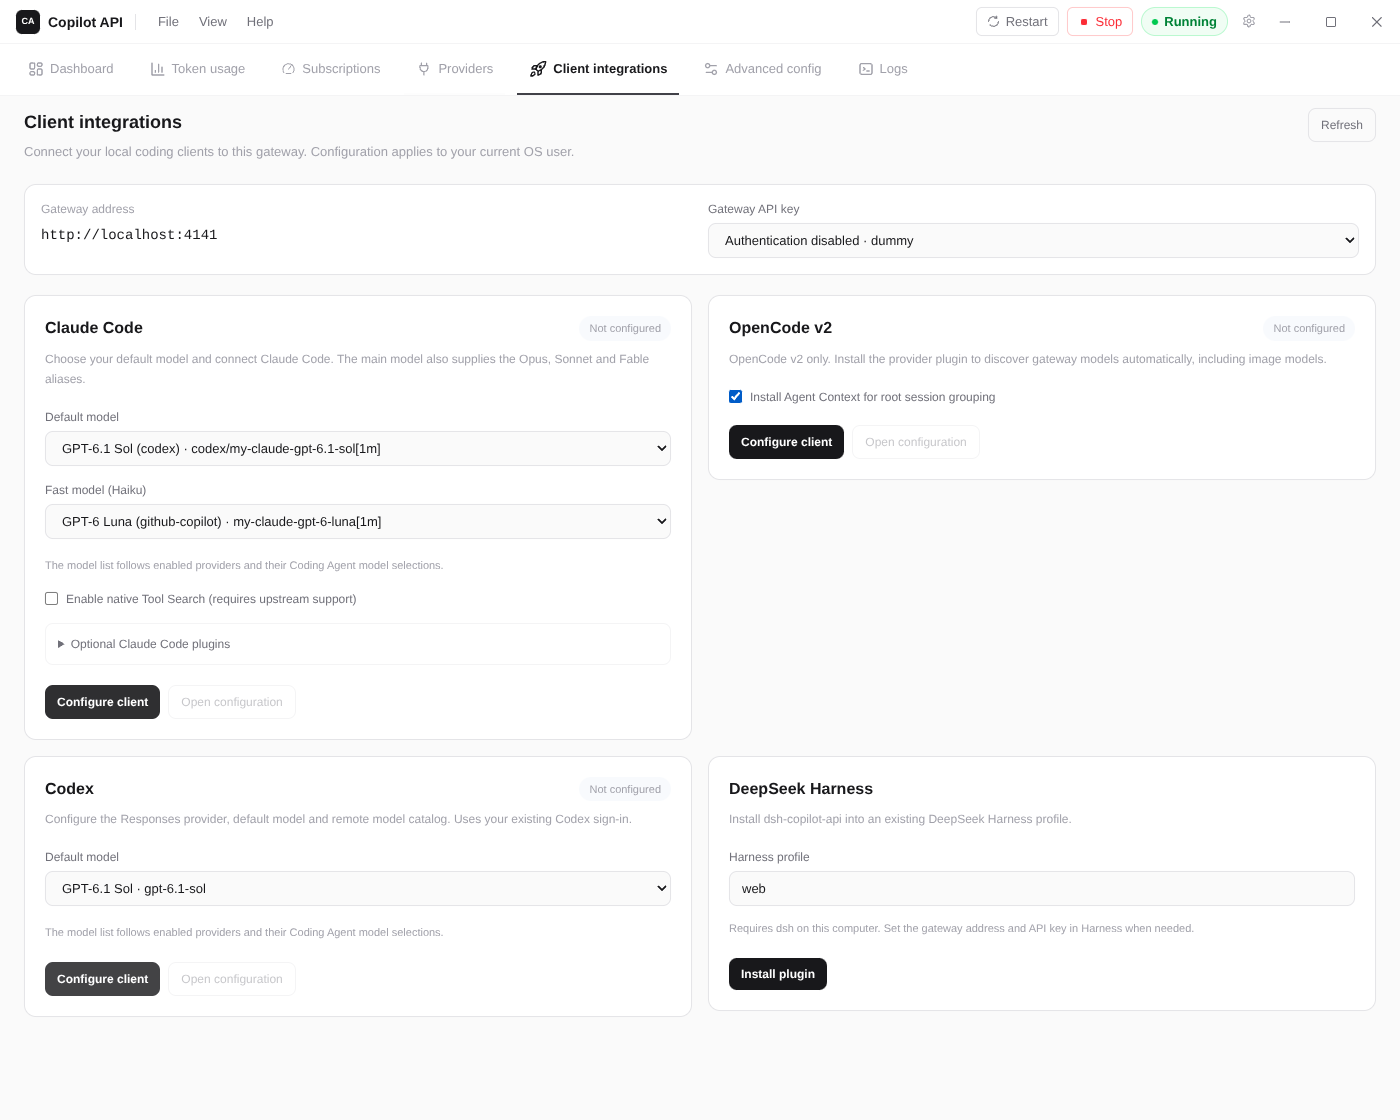
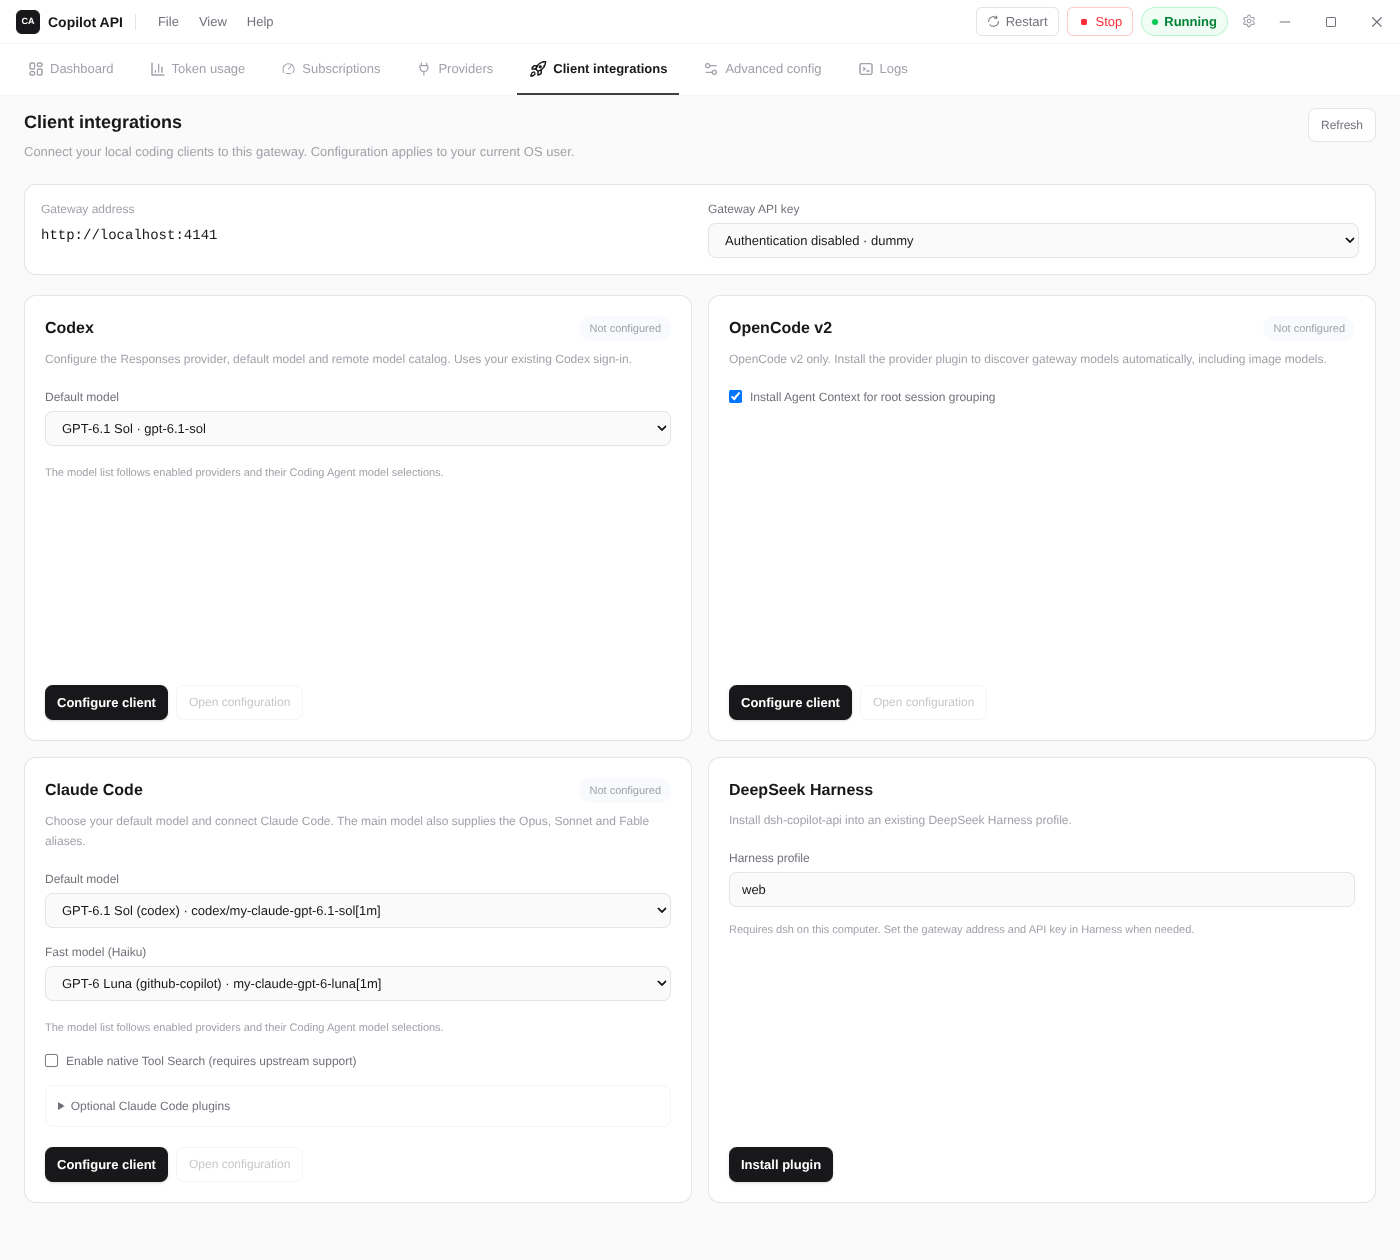
fix(desktop): align client cards and button styles

diff --git a/desktop/src/pages/ClientIntegrationsPage.tsx b/desktop/src/pages/ClientIntegrationsPage.tsx
@@ -1,5 +1,6 @@
 import { useEffect, useState } from 'react'
 import { useLanguage } from '../contexts/LanguageContext'
+import { primaryButtonClass } from '../lib/button-styles'
 import type { LocaleKey } from '../locales'
 import type { ClientIntegrationReply } from '../types/ipc'
 import {
@@ -14,9 +15,9 @@ import {
 const fieldClass =
   'mt-1.5 block w-full rounded-lg border border-line bg-canvas px-3 py-2 text-[13px] text-ink outline-none focus:border-blue-400 focus:ring-2 focus:ring-blue-400/15 disabled:opacity-50'
 const buttonClass =
-  'rounded-lg border border-line px-3 py-2 text-xs text-ink-soft transition hover:bg-sunken disabled:cursor-not-allowed disabled:opacity-40'
-const primaryClass =
-  'rounded-lg bg-accent-strong px-3 py-2 text-xs font-semibold text-white transition hover:opacity-90 disabled:cursor-not-allowed disabled:opacity-40'
+  'rounded-lg border border-line bg-surface px-3 py-2 text-xs text-ink-soft transition hover:bg-sunken disabled:cursor-not-allowed disabled:opacity-40'
+const primaryClass = `px-3 py-2 ${primaryButtonClass}`
+const clientOrder: ClientId[] = ['codex', 'opencode', 'claude']
 type Translate = ReturnType<typeof useLanguage>['t']
 
 function errorText(t: Translate, code: string) {
@@ -164,17 +165,21 @@ export default function ClientIntegrationsPage({
               {t('clients.errors.modelsFailed')}
             </p>
           )}
-          <div className="grid items-start gap-4 lg:grid-cols-2">
-            {state.clients.map((status) => (
-              <ClientCard
-                key={status.client}
-                status={status}
-                apiKey={apiKey}
-                models={models[status.client] ?? []}
-                onUpdate={updateStatus}
-                t={t}
-              />
-            ))}
+          <div className="grid items-stretch gap-4 lg:auto-rows-fr lg:grid-cols-2">
+            {clientOrder
+              .flatMap((client) =>
+                state.clients.filter((status) => status.client === client),
+              )
+              .map((status) => (
+                <ClientCard
+                  key={status.client}
+                  status={status}
+                  apiKey={apiKey}
+                  models={models[status.client] ?? []}
+                  onUpdate={updateStatus}
+                  t={t}
+                />
+              ))}
             <HarnessCard profiles={state.harnessProfiles} t={t} />
           </div>
         </>
@@ -309,7 +314,7 @@ function ClientCard({
   return (
     <section
       data-client={status.client}
-      className="rounded-xl border border-line bg-surface p-5"
+      className="flex min-w-0 flex-col rounded-xl border border-line bg-surface p-5"
     >
       <div className="flex items-center justify-between gap-3">
         <h3 className="text-base font-semibold text-ink">
@@ -324,7 +329,7 @@ function ClientCard({
       <p className="mt-2 text-xs leading-5 text-ink-faint">
         {t(descriptions[status.client])}
       </p>
-      <fieldset disabled={busy} className="mt-5 space-y-4">
+      <fieldset disabled={busy} className="mt-5 flex-1 space-y-4">
         {status.client !== 'opencode' && (
           <>
             {chooseModel(t('clients.model'), model, setModel)}
@@ -482,7 +487,7 @@ function HarnessCard({ profiles, t }: { profiles: string[]; t: Translate }) {
   return (
     <section
       data-client="harness"
-      className="rounded-xl border border-line bg-surface p-5"
+      className="flex min-w-0 flex-col rounded-xl border border-line bg-surface p-5"
     >
       <h3 className="text-base font-semibold text-ink">DeepSeek Harness</h3>
       <p className="mt-2 text-xs leading-5 text-ink-faint">
@@ -509,26 +514,28 @@ function HarnessCard({ profiles, t }: { profiles: string[]; t: Translate }) {
       <p className="mt-3 text-[11px] leading-5 text-ink-faint">
         {t('clients.harnessHint')}
       </p>
-      <button
-        className={`${primaryClass} mt-5`}
-        disabled={busy || !/^[\w-]{1,80}$/.test(profile)}
-        onClick={() => void install()}
-      >
-        {t(busy ? 'clients.working' : 'clients.installPlugin')}
-      </button>
-      {installed && (
-        <p
-          role="status"
-          className="mt-3 text-xs leading-5 text-green-600 dark:text-green-400"
+      <div className="mt-auto flex flex-col items-start pt-5">
+        <button
+          className={primaryClass}
+          disabled={busy || !/^[\w-]{1,80}$/.test(profile)}
+          onClick={() => void install()}
         >
-          {t('clients.pluginInstalled')}
-        </p>
-      )}
-      {error && (
-        <p role="alert" className="mt-3 text-xs leading-5 text-red-500">
-          {errorText(t, error)}
-        </p>
-      )}
+          {t(busy ? 'clients.working' : 'clients.installPlugin')}
+        </button>
+        {installed && (
+          <p
+            role="status"
+            className="mt-3 text-xs leading-5 text-green-600 dark:text-green-400"
+          >
+            {t('clients.pluginInstalled')}
+          </p>
+        )}
+        {error && (
+          <p role="alert" className="mt-3 text-xs leading-5 text-red-500">
+            {errorText(t, error)}
+          </p>
+        )}
+      </div>
     </section>
   )
 }

diff --git a/desktop/tests/client-integrations-ui.test.ts b/desktop/tests/client-integrations-ui.test.ts
@@ -142,6 +142,11 @@ describe('client integration page', () => {
   test('shows four clients, only OpenCode v2, and masked gateway key choices', async () => {
     await render()
     expect(dom.container.querySelectorAll('[data-client]')).toHaveLength(4)
+    expect(
+      [...dom.container.querySelectorAll('[data-client] h3')].map(
+        (heading) => heading.textContent,
+      ),
+    ).toEqual(['Codex', 'OpenCode v2', 'Claude Code', 'DeepSeek Harness'])
     expect(card('opencode').textContent).toContain('OpenCode v2 only')
     expect(dom.container.textContent).not.toContain('OpenCode v1')
     expect(dom.container.textContent).not.toContain('private-gateway-key')
